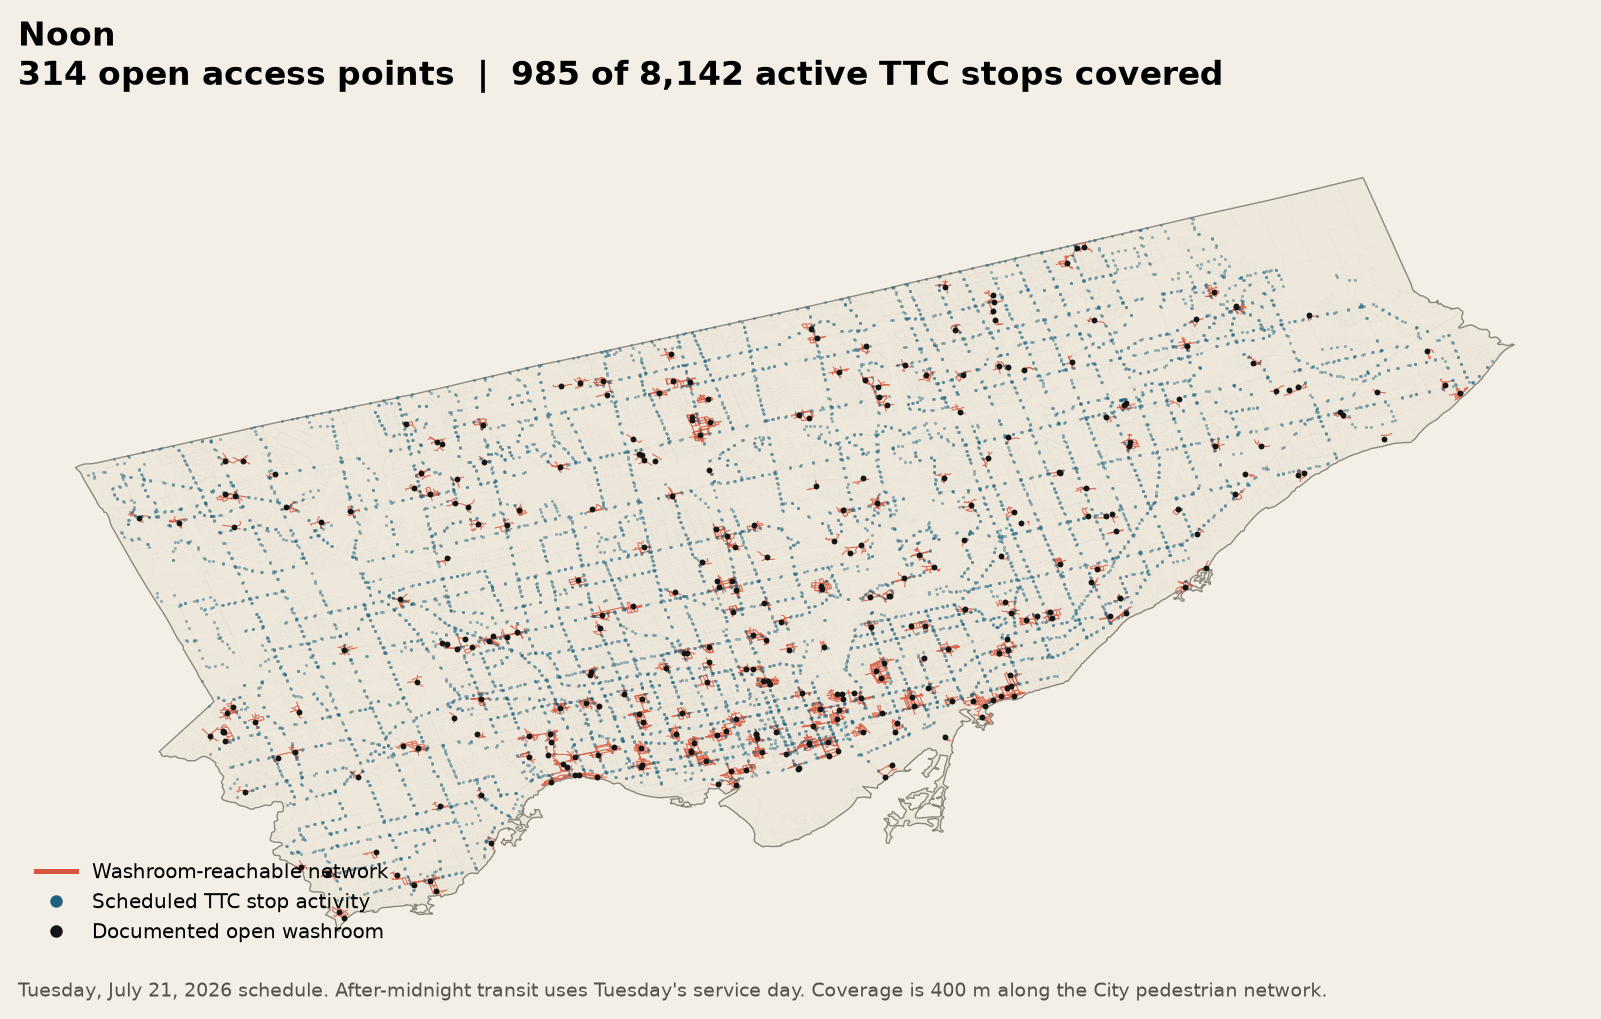
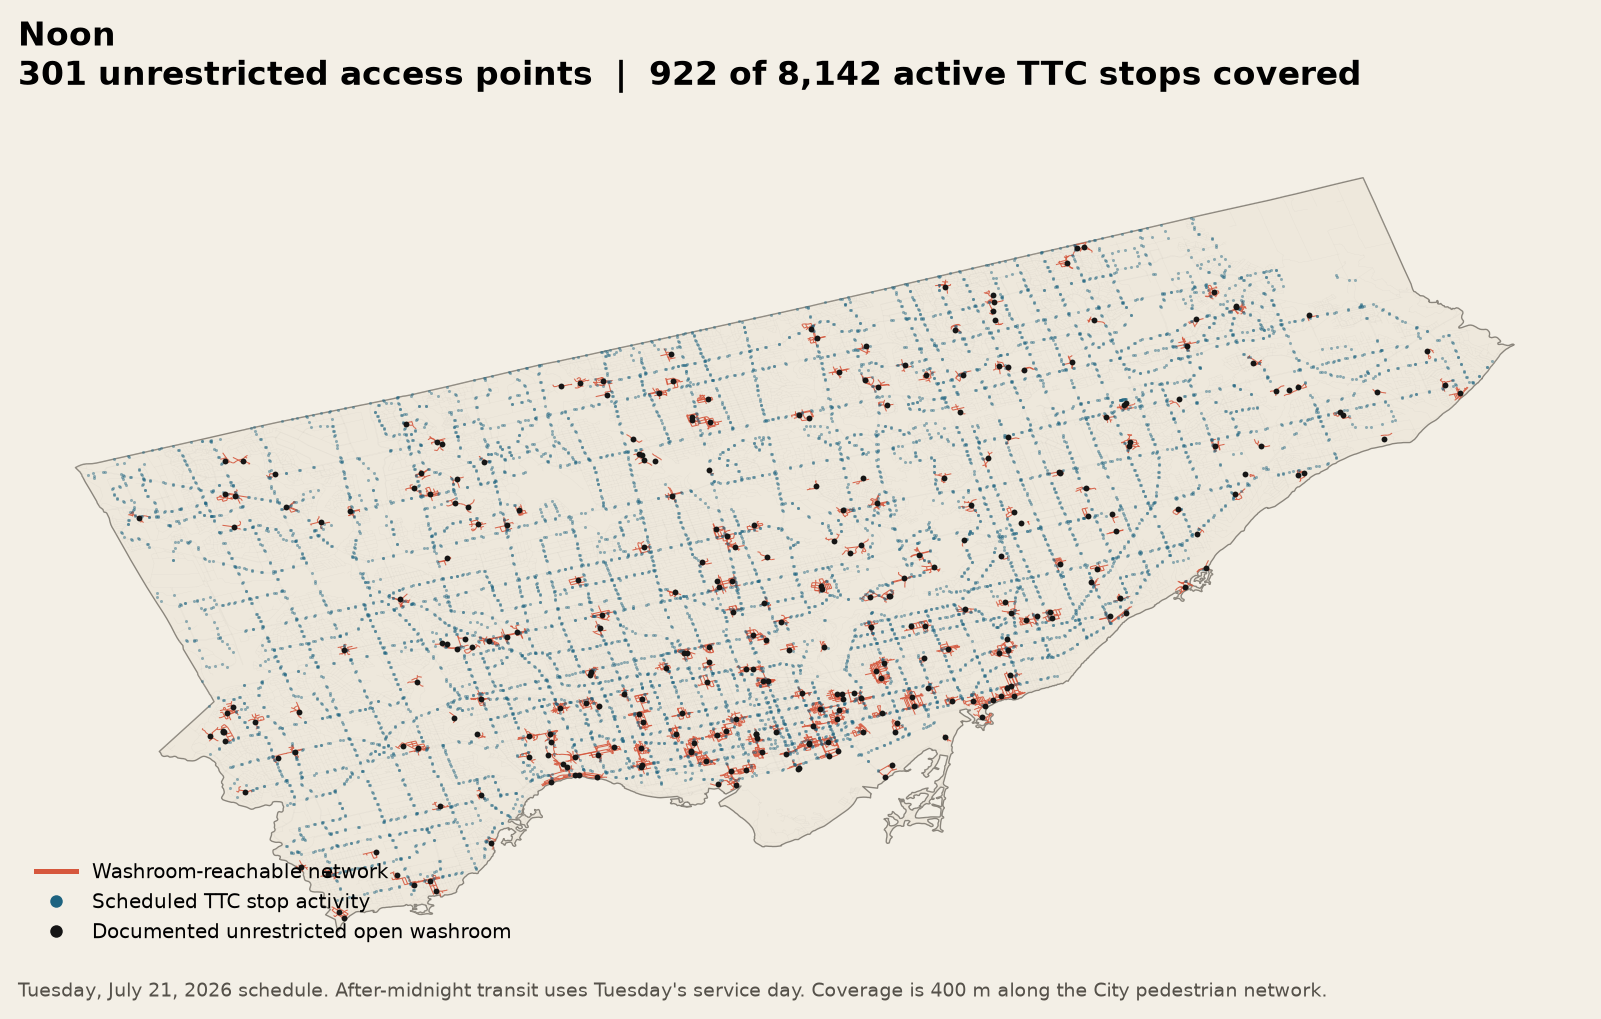
fix: exclude fare-paid washrooms from public coverage

Changed region(s): [[0.0312, 0.0608, 0.8745, 0.0913], [0.1562, 0.9127, 0.3123, 0.9431], [0.3748, 0.578, 0.406, 0.6084]]

diff --git a/data/scripts/21_build_washroom_proof.py b/data/scripts/21_build_washroom_proof.py
@@ -412,6 +412,8 @@ def source_offsets_for_open_facilities(
 ) -> dict[tuple[float, float], float]:
     offsets = {}
     for facility in facilities:
+        if facility.access_condition != "unrestricted":
+            continue
         if states[facility.facility_id] != Availability.OPEN:
             continue
         node, offset = facility_snaps[facility.facility_id]
@@ -457,7 +459,7 @@ def plot_snapshot(
     )
     axis.set_title(
         f"{snapshot.label}\n"
-        f"{summary['open_access_points']} open access points  |  "
+        f"{summary['open_access_points']} unrestricted access points  |  "
         f"{summary['covered_transit_stops']:,} of "
         f"{summary['active_transit_stops']:,} active TTC stops covered",
         loc="left",
@@ -495,7 +497,7 @@ def plot_snapshot(
             markerfacecolor="#151515",
             markeredgecolor="none",
             markersize=5,
-            label="Documented open washroom",
+            label="Documented unrestricted open washroom",
         ),
     ]
     axis.legend(handles=legend, loc="lower left", frameon=False, fontsize=8)
@@ -579,6 +581,11 @@ def write_readme(
     late = by_slug["2200"]
     overnight = by_slug["0030"]
     open_drop = 100 * (1 - late["open_access_points"] / noon["open_access_points"])
+    overnight_access_point_label = (
+        "access point"
+        if overnight["open_access_points"] == 1
+        else "access points"
+    )
     lines = [
         "# Field Guide 03 data proof",
         "",
@@ -587,11 +594,14 @@ def write_readme(
         "## Result",
         "",
         (
-            f"Documented open access points fall from {noon['open_access_points']} at noon "
-            f"to {late['open_access_points']} at 10 p.m., a {open_drop:.1f}% contraction. "
+            f"Documented unrestricted open access points fall from "
+            f"{noon['open_access_points']} at noon to {late['open_access_points']} at "
+            f"10 p.m., a {open_drop:.1f}% contraction. "
             f"At 12:30 a.m., {overnight['active_transit_stops']:,} TTC stops still show "
             f"scheduled activity within the 30-minute observation window, while only "
-            f"{overnight['open_access_points']} washroom access points remain reliably open."
+            f"{overnight['open_access_points']} unrestricted public washroom "
+            f"{overnight_access_point_label} remains reliably open. Fare-paid TTC washrooms "
+            f"are reported separately and do not seed public walking coverage."
         ),
         "",
         "This passes the temporal-pattern part of the proof. It does not yet rank priority "
@@ -600,13 +610,15 @@ def write_readme(
         "",
         "## Snapshot summary",
         "",
-        "| Time | Open access points | Open facility records | Unknown hours | Active TTC stops | TTC stops covered |",
-        "|---|---:|---:|---:|---:|---:|",
+        "| Time | Unrestricted open access points | Unrestricted open records | Fare-paid open records | Unknown unrestricted hours | Active TTC stops | TTC stops covered by unrestricted facilities |",
+        "|---|---:|---:|---:|---:|---:|---:|",
     ]
     for summary in summaries:
         lines.append(
             f"| {summary['label']} | {summary['open_access_points']} | "
-            f"{summary['open_facility_records']} | {summary['unknown_hours']} | "
+            f"{summary['open_facility_records']} | "
+            f"{summary['fare_paid_open_facility_records']} | "
+            f"{summary['unknown_hours']} | "
             f"{summary['active_transit_stops']:,} | {summary['covered_transit_stops']:,} "
             f"({summary['transit_coverage_pct']:.1f}%) |"
         )
@@ -631,9 +643,10 @@ def write_readme(
             "1. Consolidate Parks, libraries, CREM buildings, museums and cultural centres, automated public washrooms, and TTC washroom stations.",
             "2. Normalize published weekly hours. Keep unknown hours distinct from scheduled closure.",
             "3. Apply live Parks closure status. Partial closures remain available with a flag.",
-            "4. Snap open facilities and scheduled TTC stops to the City Pedestrian Network.",
-            "5. Run a multi-source 400 m shortest-path search with the facility-to-network snap offset included.",
-            "6. Count a TTC stop as covered only when its network distance plus stop snap distance is at most 400 m.",
+            "4. Exclude fare-paid TTC washrooms from unrestricted public coverage and report their open count separately.",
+            "5. Snap unrestricted open facilities and scheduled TTC stops to the City Pedestrian Network.",
+            "6. Run a multi-source 400 m shortest-path search with the facility-to-network snap offset included.",
+            "7. Count a TTC stop as covered only when its network distance plus stop snap distance is at most 400 m.",
             "",
             "The City describes the pedestrian network as topologically focused and notes known completeness and classification limitations. These maps show documented scheduled access, not guaranteed real-time availability or passenger demand.",
         ]
@@ -652,6 +665,14 @@ def build(snapshot_date: date) -> Path:
     )
     gtfs_path = RAW_DIR / "completegtfs.zip"
     facilities, outside = load_facilities(gtfs_path, boundary)
+    unrestricted_facilities = [
+        facility
+        for facility in facilities
+        if facility.access_condition == "unrestricted"
+    ]
+    fare_paid_facilities = [
+        facility for facility in facilities if facility.access_condition == "fare_paid"
+    ]
     clusters = cluster_access_points(facilities)
 
     print(f"Facilities inside Toronto: {len(facilities)}")
@@ -681,7 +702,7 @@ def build(snapshot_date: date) -> Path:
             for facility in facilities
         }
         offsets = source_offsets_for_open_facilities(
-            facilities, states, facility_snaps
+            unrestricted_facilities, states, facility_snaps
         )
         distances = multi_source_distances(
             graph, offsets, cutoff=WALKING_CUTOFF_METRES
@@ -693,12 +714,21 @@ def build(snapshot_date: date) -> Path:
         reached_edges = edges[reached_mask]
         open_facilities = [
             facility
-            for facility in facilities
+            for facility in unrestricted_facilities
+            if states[facility.facility_id] == Availability.OPEN
+            and facility_snaps[facility.facility_id][1] <= MAX_SNAP_METRES
+        ]
+        fare_paid_open_facilities = [
+            facility
+            for facility in fare_paid_facilities
             if states[facility.facility_id] == Availability.OPEN
             and facility_snaps[facility.facility_id][1] <= MAX_SNAP_METRES
         ]
         open_clusters = {
             clusters[facility.facility_id] for facility in open_facilities
+        }
+        fare_paid_open_clusters = {
+            clusters[facility.facility_id] for facility in fare_paid_open_facilities
         }
 
         transit_rows = active_stops[snapshot.slug]
@@ -708,11 +738,13 @@ def build(snapshot_date: date) -> Path:
             if distances.get(node, float("inf")) + snap_distance <= WALKING_CUTOFF_METRES:
                 covered_transit += 1
 
-        state_counts = Counter(states.values())
+        state_counts = Counter(
+            states[facility.facility_id] for facility in unrestricted_facilities
+        )
         open_by_source = Counter(facility.source for facility in open_facilities)
         unknown_by_source = Counter(
             facility.source
-            for facility in facilities
+            for facility in unrestricted_facilities
             if states[facility.facility_id] == Availability.UNKNOWN
         )
         summary = {
@@ -720,6 +752,8 @@ def build(snapshot_date: date) -> Path:
             "label": snapshot.label,
             "open_access_points": len(open_clusters),
             "open_facility_records": len(open_facilities),
+            "fare_paid_open_access_points": len(fare_paid_open_clusters),
+            "fare_paid_open_facility_records": len(fare_paid_open_facilities),
             "scheduled_closed": state_counts[Availability.CLOSED],
             "temporarily_closed": state_counts[Availability.TEMPORARILY_CLOSED],
             "unknown_hours": state_counts[Availability.UNKNOWN],

diff --git a/data/scripts/tests/test_fg03_proof.py b/data/scripts/tests/test_fg03_proof.py
@@ -1,5 +1,7 @@
 import json
+import runpy
 import unittest
+from pathlib import Path
 from unittest.mock import patch
 
 import networkx as nx
@@ -13,7 +15,7 @@ from fg03_proof import (
     consolidate_crem_rows,
     multi_source_distances,
 )
-from fg03_schedule import parse_weekly_hours
+from fg03_schedule import Availability, parse_weekly_hours
 
 
 def crem_row(
@@ -135,6 +137,52 @@ class SourceConsolidationTests(unittest.TestCase):
 
 
 class NetworkCoverageTests(unittest.TestCase):
+    def test_fare_paid_facility_does_not_seed_unrestricted_coverage(self):
+        builder = runpy.run_path(
+            str(Path(__file__).parents[1] / "21_build_washroom_proof.py")
+        )
+        source_offsets = builder["source_offsets_for_open_facilities"]
+        unrestricted = Facility(
+            facility_id="public",
+            source="parks",
+            name="Public washroom",
+            address="1 Main St",
+            lon=-79.4,
+            lat=43.65,
+            hours_raw="",
+            schedule=None,
+            accessible=None,
+            all_gender=None,
+            access_condition="unrestricted",
+        )
+        fare_paid = Facility(
+            facility_id="fare-paid",
+            source="ttc",
+            name="Station washroom",
+            address="Station",
+            lon=-79.39,
+            lat=43.66,
+            hours_raw="",
+            schedule=None,
+            accessible=True,
+            all_gender=None,
+            access_condition="fare_paid",
+        )
+
+        offsets = source_offsets(
+            [unrestricted, fare_paid],
+            {
+                unrestricted.facility_id: Availability.OPEN,
+                fare_paid.facility_id: Availability.OPEN,
+            },
+            {
+                unrestricted.facility_id: ((0.0, 0.0), 25.0),
+                fare_paid.facility_id: ((1.0, 1.0), 10.0),
+            },
+        )
+
+        self.assertEqual(offsets, {(0.0, 0.0): 25.0})
+
     def test_network_snapper_builds_coordinate_transformer_once(self):
         graph = nx.Graph()
         graph.add_nodes_from([(-79.4, 43.65), (-79.39, 43.66)])

diff --git a/data/proof/fg03/2026-07-21/README.md b/data/proof/fg03/2026-07-21/README.md
@@ -4,18 +4,18 @@ Snapshot date: 2026-07-21 (Tuesday service day)
 
 ## Result
 
-Documented open access points fall from 314 at noon to 19 at 10 p.m., a 93.9% contraction. At 12:30 a.m., 7,885 TTC stops still show scheduled activity within the 30-minute observation window, while only 14 washroom access points remain reliably open.
+Documented unrestricted open access points fall from 301 at noon to 6 at 10 p.m., a 98.0% contraction. At 12:30 a.m., 7,885 TTC stops still show scheduled activity within the 30-minute observation window, while only 1 unrestricted public washroom access point remains reliably open. Fare-paid TTC washrooms are reported separately and do not seed public walking coverage.
 
 This passes the temporal-pattern part of the proof. It does not yet rank priority areas or test 300 m and 500 m sensitivity. Those remain Phase 2 work before the full product build is committed.
 
 ## Snapshot summary
 
-| Time | Open access points | Open facility records | Unknown hours | Active TTC stops | TTC stops covered |
-|---|---:|---:|---:|---:|---:|
-| Noon | 314 | 321 | 80 | 8,142 | 985 (12.1%) |
-| 8:30 p.m. | 244 | 249 | 80 | 8,007 | 666 (8.3%) |
-| 10 p.m. | 19 | 19 | 80 | 7,994 | 98 (1.2%) |
-| 12:30 a.m. next day | 14 | 14 | 80 | 7,885 | 90 (1.1%) |
+| Time | Unrestricted open access points | Unrestricted open records | Fare-paid open records | Unknown unrestricted hours | Active TTC stops | TTC stops covered by unrestricted facilities |
+|---|---:|---:|---:|---:|---:|---:|
+| Noon | 301 | 308 | 13 | 80 | 8,142 | 922 (11.3%) |
+| 8:30 p.m. | 231 | 236 | 13 | 80 | 8,007 | 585 (7.3%) |
+| 10 p.m. | 6 | 6 | 13 | 80 | 7,994 | 18 (0.2%) |
+| 12:30 a.m. next day | 1 | 1 | 13 | 80 | 7,885 | 8 (0.1%) |
 
 ## Facility audit
 
@@ -35,8 +35,9 @@ This passes the temporal-pattern part of the proof. It does not yet rank priorit
 1. Consolidate Parks, libraries, CREM buildings, museums and cultural centres, automated public washrooms, and TTC washroom stations.
 2. Normalize published weekly hours. Keep unknown hours distinct from scheduled closure.
 3. Apply live Parks closure status. Partial closures remain available with a flag.
-4. Snap open facilities and scheduled TTC stops to the City Pedestrian Network.
-5. Run a multi-source 400 m shortest-path search with the facility-to-network snap offset included.
-6. Count a TTC stop as covered only when its network distance plus stop snap distance is at most 400 m.
+4. Exclude fare-paid TTC washrooms from unrestricted public coverage and report their open count separately.
+5. Snap unrestricted open facilities and scheduled TTC stops to the City Pedestrian Network.
+6. Run a multi-source 400 m shortest-path search with the facility-to-network snap offset included.
+7. Count a TTC stop as covered only when its network distance plus stop snap distance is at most 400 m.
 
 The City describes the pedestrian network as topologically focused and notes known completeness and classification limitations. These maps show documented scheduled access, not guaranteed real-time availability or passenger demand.
